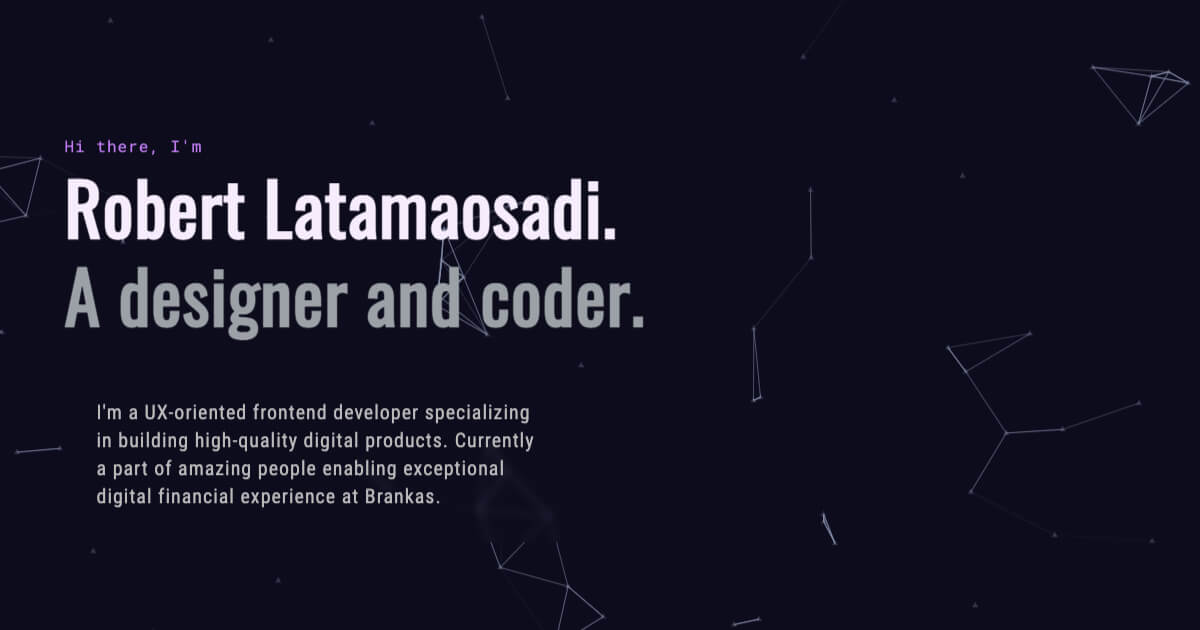
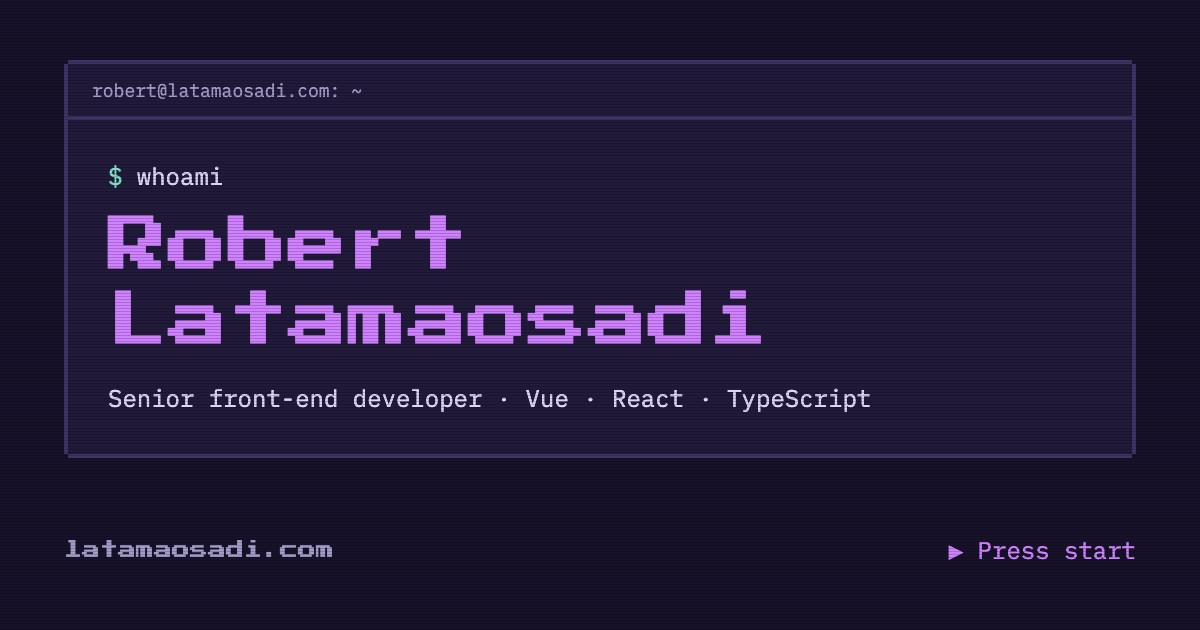
refresh copy, add experience details, new og image and masa cover
- rewrite hero and about with concrete details
- add brankas role notes to experience
- fact-check project descriptions, link clock-ui source
- add vite/astro to stack, sharper title and meta description
- terminal-style og image, fresh masa screenshot
- github/linkedin links in contact

diff --git a/src/data/projects.ts b/src/data/projects.ts
@@ -1,13 +1,14 @@
 import type { ImageMetadata } from "astro";
 import clockUi from "../assets/projects/clock-ui.png";
 import pokepedia from "../assets/projects/pokepedia.png";
-import masa from "../assets/projects/masa.jpg";
+import masa from "../assets/projects/masa.png";
 
 export type Project = {
   id: string;
   title: string;
   description: string;
   url: string;
+  source?: string;
   tools: string[];
   cover: ImageMetadata;
 };
@@ -17,8 +18,9 @@ export const projects: Project[] = [
     id: "clock-ui",
     title: "@clock-ui",
     description:
-      "An open-source analog clock component library for plain DOM, React and Vue. Real-time updates, timezone support, full theming and first-class TypeScript types.",
+      "An open-source analog clock component library for plain DOM, React and Vue. Smooth animations, timezone support, customizable colors and sizes, and full TypeScript types.",
     url: "https://clock-ui.github.io/clock-ui/",
+    source: "https://github.com/clock-ui/clock-ui",
     tools: ["TypeScript", "Vue", "React", "VitePress"],
     cover: clockUi,
   },
@@ -26,7 +28,7 @@ export const projects: Project[] = [
     id: "pokepedia",
     title: "Poképedia",
     description:
-      "A fast Pokémon browser covering every generation. Filter by Pokédex and type, search by name or number, toggle shiny sprites, and build a team.",
+      "Browse all 1,025 Pokémon with per-game Pokédexes, type matchups, moves and abilities, shiny sprites, and a team builder.",
     url: "https://pokepedia.latamaosadi.com",
     tools: ["Vue 3", "Vite", "Pinia", "Tailwind v4"],
     cover: pokepedia,
@@ -35,7 +37,7 @@ export const projects: Project[] = [
     id: "masa",
     title: "Masa: Simple Desk Clock",
     description:
-      "A clean web desk clock that shows the time, date and local weather, with 12- and 24-hour formats.",
+      "Turns a spare phone into an LCD-style desk clock showing the time, date and local weather, in 12- or 24-hour format.",
     url: "https://masa.latamaosadi.com",
     tools: ["Vue 3", "Vite", "@vueuse/core"],
     cover: masa,
